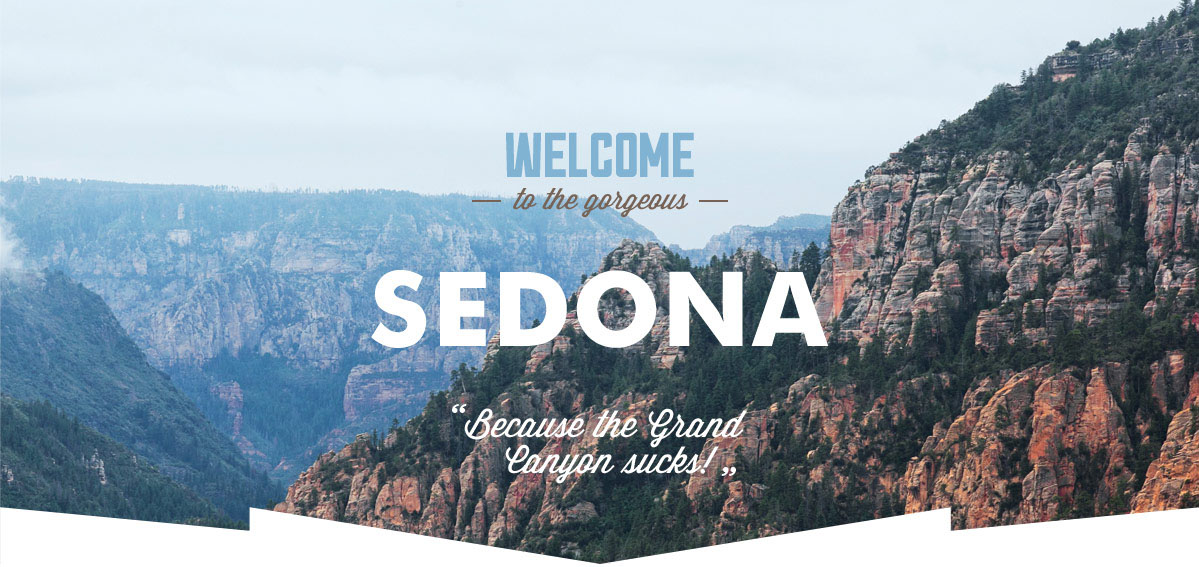
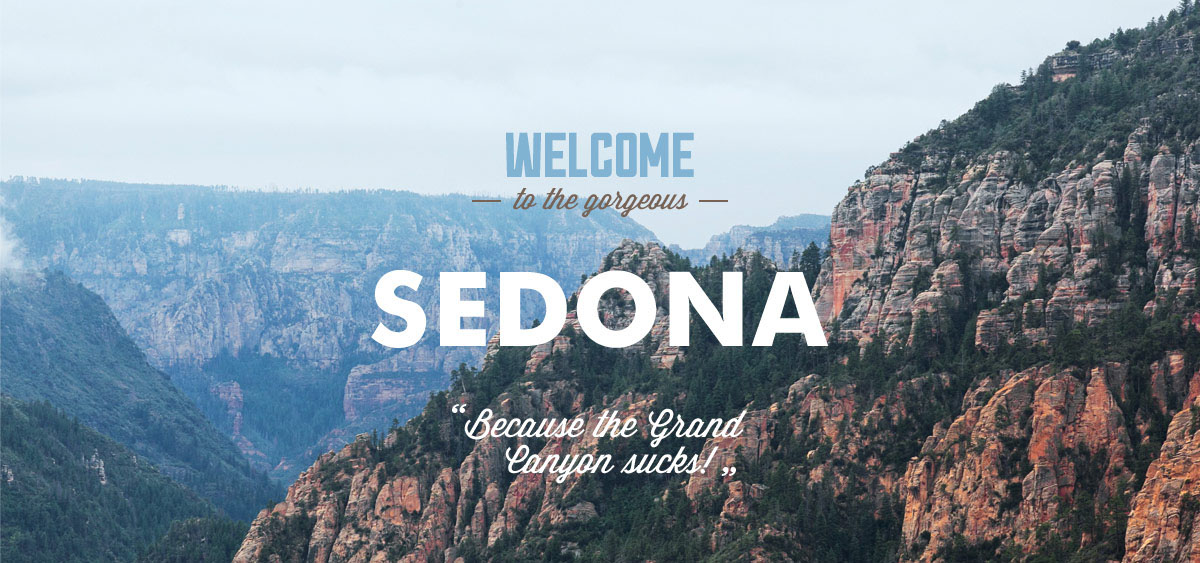
исправление сеток

diff --git a/hotels.html b/hotels.html
@@ -20,9 +20,8 @@
       </header>
     <main>
         <form class="hotel-choice">
-          <div class="clearfix">
-            <div class="structure">
-              <fieldset>
+            <div class="clearfix">
+              <fieldset class="structure">
                 <legend>Инфраструктура:</legend>
                 <label id="pool">Бассейн</label>
                 <input id="pool" type="checkbox" name="pool" value="pool">
@@ -31,9 +30,7 @@
                 <label id="wi-fi">WI-FI</label>
                 <input id="wi-fi" type="checkbox" name="wi-fi" value="wi-fi">
               </fieldset>
-            </div>
-            <div class="house-type">
-              <fieldset>
+              <fieldset class="house-type">
                 <legend>Тип жилья:</legend>
                 <label id="hostel">Гостиница</label>
                 <input id="hostel" type="checkbox" name="hostel" value="hostel">
@@ -42,12 +39,12 @@
                 <label id="apartments">Апартаменты</label>
                 <input id="apartments" type="checkbox" name="apartments" value="apartments">
               </fieldset>
-            </div>
-            <div class="price">
-              <fieldset>
+              <fieldset class="price">
                 <legend>Стоимость в сутки (р):</legend>
-                  <label id="slider-left" class="from-0">от 0</label>
-                  <label id="slider-right" class="till-3000">до 3000</label>
+                  <!--<label id="slider-left" class="from-0">от 0</label>-->
+                  <input id="slider-left" type="text" value="от 0">
+                  <!--<label id="slider-right" class="till-3000">до 3000</label>-->
+                  <input id="slider-right" type="text" value="до 3000">
                   <div class="range">
                     <div id="slider-left"></div>
                     <div id="slider-right"></div>
@@ -56,12 +53,11 @@
                   </div>
                 </fieldset>
               </div>
-            </div>
           <button class="btn-show" type="submit">Показать</button>
         </form>
         <header class="result-header clearfix">
           <div class="result-header-left">
-            <b>Найдено:3</b>
+            <b>Найдено:<output>3</output></b>
             <span>Сортировка</span>
             <a href="#" class="btn-sort" type="button">По цене</a>
             <a href="#" class="btn-sort" type="button">По типу</a>
@@ -72,47 +68,45 @@
             <button class="btn-sort-down-up" type="button"><img src="img/down-up.jpg" height="10" width="10"></button>
           </div>
         </header>
-        <div class="results clearfix">
-          <article class="result-item clearfix">
-            <div class="result-item-left">
-              <img src="img/hotel-1.jpg"  height="90" width="135" alt="Amara Resort & Spa">
-              <h3>Amara Resort & Spa</h3>
-              <span> Гостиница</span> <span>от 3500 р.</span>
-              <a href="#">Подробнее</a>
-              <a href="#">Забронировать</a>
-            </div>
-            <div class="result-item-right">
-              <img src="img/4star.jpg" height="20" width="50">
-              <span>Рейтинг: 8,5</span>
-            </div>
-          </article>
-          <article class="result-item clearfix">
-            <div class="result-item-left">
-              <img src="img/hotel-2.jpg"  height="90" width="135" alt="Desert quail inn">
-              <h3>Desert quail inn</h3>
-              <span> Мотель</span> <span>от 2000 р.</span>
-              <a href="#">Подробнее</a>
-              <a href="#">Забронировать</a>
-            </div>
-            <div class="result-item-right">
-              <img src="img/2star.jpg" height="20" width="50">
-              <span>Рейтинг: 8,9</span>
-            </div>
-          </article>
-          <article class="result-item clearfix">
-            <div class="result-item-left">
-              <img src="img/hotel-3.jpg"  height="90" width="135" alt="Villas at poco diablo">
-              <h3>Villas at poco diablo</h3>
-              <span> Апартаменты</span> <span>от 4000 р.</span>
-              <a href="#">Подробнее</a>
-              <a href="#">Забронировать</a>
-            </div>
-            <div class="result-item-right">
-              <img src="img/3star.jpg" height="20" width="50">
-              <span>Рейтинг: 9,2</span>
-            </div>
-          </article>
-        </div>
+        <article class="result-item clearfix">
+          <div class="result-item-left">
+            <img src="img/hotel-1.jpg"  height="90" width="135" alt="Amara Resort & Spa">
+            <h3>Amara Resort & Spa</h3>
+            <span> Гостиница</span> <span>от 3500 р.</span>
+            <a href="#">Подробнее</a>
+            <a href="#">Забронировать</a>
+          </div>
+          <div class="result-item-right">
+            <img src="img/4star.jpg" height="20" width="50">
+            <span>Рейтинг: 8,5</span>
+          </div>
+        </article>
+        <article class="result-item clearfix">
+          <div class="result-item-left">
+            <img src="img/hotel-2.jpg"  height="90" width="135" alt="Desert quail inn">
+            <h3>Desert quail inn</h3>
+            <span> Мотель</span> <span>от 2000 р.</span>
+            <a href="#">Подробнее</a>
+            <a href="#">Забронировать</a>
+          </div>
+          <div class="result-item-right">
+            <img src="img/2star.jpg" height="20" width="50">
+            <span>Рейтинг: 8,9</span>
+          </div>
+        </article>
+        <article class="result-item clearfix">
+          <div class="result-item-left">
+            <img src="img/hotel-3.jpg"  height="90" width="135" alt="Villas at poco diablo">
+            <h3>Villas at poco diablo</h3>
+            <span> Апартаменты</span> <span>от 4000 р.</span>
+            <a href="#">Подробнее</a>
+            <a href="#">Забронировать</a>
+          </div>
+          <div class="result-item-right">
+            <img src="img/3star.jpg" height="20" width="50">
+            <span>Рейтинг: 9,2</span>
+          </div>
+        </article>
     </main>
     <footer class="main-footer clearfix">
         <section class="hashtag">
@@ -125,7 +119,7 @@
         </section>
         <section class="footer-copyright">
           <p>Website by</p>
-          <img src="img/htmlacademy-logo" width="30" height="30">
+          <a href="https://htmlacademy.ru"><img src="img/htmlacademy-logo" width="30" height="30"></a>
           <a class="btn" href="https://htmlacademy.ru">HTML Academy</a>
         </section>
     </footer>

diff --git a/css/style.css b/css/style.css
@@ -16,6 +16,11 @@ h1, h2{
 
 }
 
+.container{
+  width: 1200px;
+  margin: 0 auto;
+}
+
 .clearfix::after {
   content: "";
   display: table;
@@ -24,12 +29,10 @@ h1, h2{
 
 header{
   background-color: red;
-  width: 1200px;
 }
 
 .why-sedona{
-  background-color: blue;
-  width: 1200px;
+  background-color: green;
   min-height: 724px;
 }
 
@@ -42,7 +45,6 @@ header{
 
 .reason-1{
   background-color: green;
-  width: 1200px;
 }
 
 .reason-1 .reason{
@@ -59,17 +61,23 @@ header{
 
 .features{
   background-color: yellow;
-  width: 1200px;
 }
-.features .reason, .other-reasons .reason{
+.features .reason{
   float:left;
   background-color: grey;
   width: 400px;
+  min-height: 330px;
+}
+
+.other-reasons .reason{
+  float:left;
+  background-color: grey;
+  width: 400px;
+  min-height: 256px;
 }
 
 .reason-2{
   background-color: blue;
-  width: 1200px;
 }
 
 .reason-2 .picture-left{
@@ -84,11 +92,9 @@ header{
 
 .other-reasons{
   background-color: purple;
-  width: 1200px;
 }
 .booking{
   background-color: magenta;
-  width: 1200px;
 }
 
 .choice form{
@@ -100,7 +106,6 @@ header{
 
 footer{
   background-color: yellow;
-  width: 1200px;
 }
 
 .hashtag{
@@ -123,11 +128,17 @@ footer{
   margin-right: 73px;
 }
 
+.hotel-choice{
+  background-color: magenta;
+  min-height: 217px;
+}
+
 .structure{
   float:left;
   background-color: grey;
   width: 149px;
   margin-left: 73px;
+  min-height: 217px;
 }
 
 .house-type{
@@ -135,6 +146,7 @@ footer{
   background-color: grey;
   width: 166px;
   margin-left: 93px;
+  min-height: 217px;
 }
 
 .price{
@@ -142,21 +154,20 @@ footer{
   background-color: grey;
   width: 328px;
   margin-right: 73px;
+  min-height: 217px;
 }
-.hotel-choice{
-  background-color: magenta;
-  width: 1200px;
-}
+
 .result-header{
   background-color: green;
-  width: 1200px;
 }
+
 .result-header-right{
   float:right;
   background-color: grey;
   width:40px;
   margin-right:73px
 }
+
 .result-header-left{
   float:left;
   background-color: grey;
@@ -166,7 +177,6 @@ footer{
 
 .results{
   background-color: blue;
-  width:1200px;
 }
 
 .result-item-left{

diff --git a/index.html b/index.html
@@ -20,7 +20,7 @@
       </header>
       <main>
         <section class="why-sedona">
-          <img src="img/why-sedona.jpg" height="564" width="1200" alt="Седона лучше Гранд Каньона">
+          <img src="img/why-sedona.jpg" height="509" width="1200" alt="Седона лучше Гранд Каньона">
           <h1>Седона- небольшой городок в Аризоне, заслуживающий большего!</h1>
           <p>Рассмотрим 5 причин, по которым Седона круче, чем Гранд Каньон!</p>
         </section>
@@ -117,7 +117,7 @@
         </section>
         <section class="footer-copyright">
           <span>Website by</span>
-          <img src="img/htmlacademy-logo" width="30" height="30" alt="логотип htmlacademy">
+        <a href="https://htmlacademy.ru"><img src="img/htmlacademy-logo" width="30" height="30"></a>
           <a class="btn" href="https://htmlacademy.ru" target="_blank">HTML Academy</a>
         </section>
     </footer>
